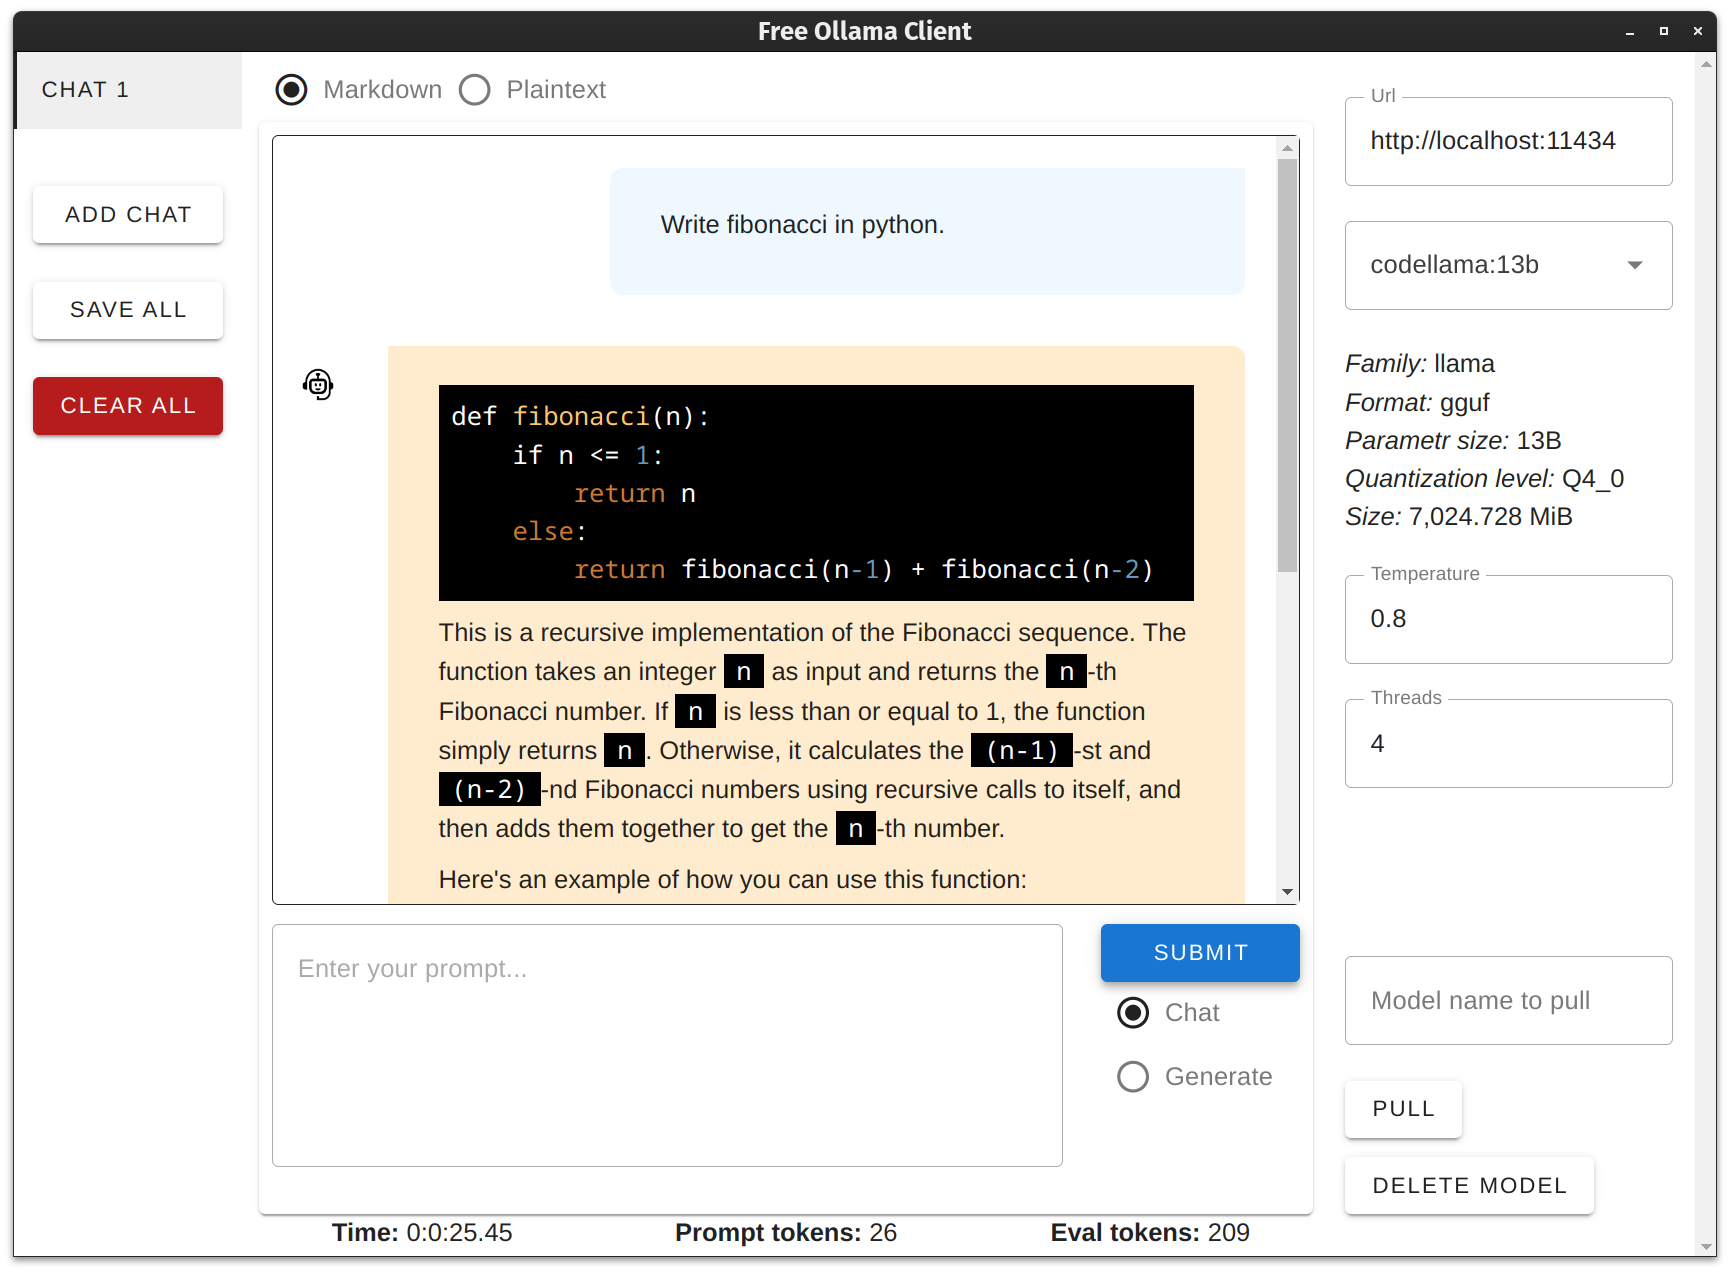
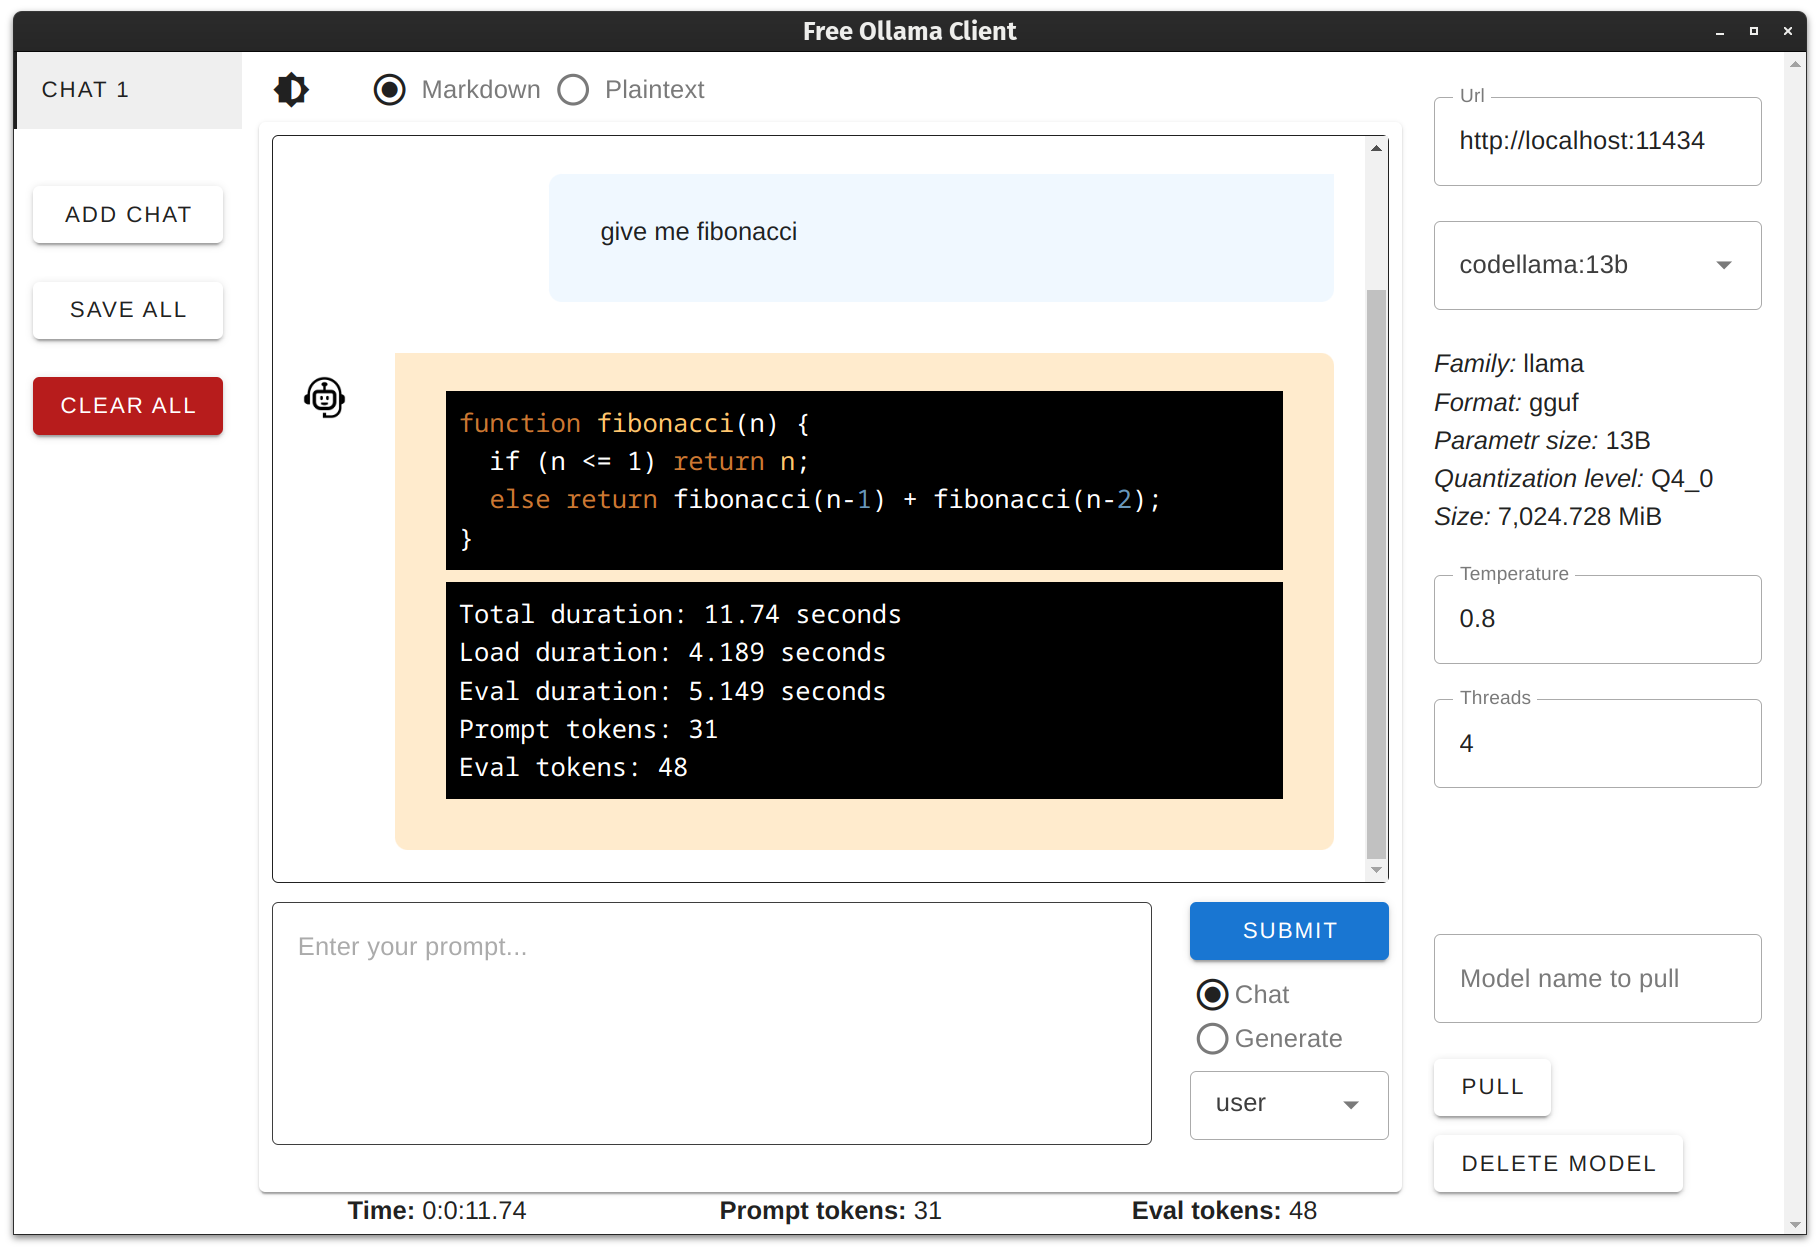
Autodetect system theme (dark or light).

diff --git a/src/components/Chat.vue b/src/components/Chat.vue
@@ -92,10 +92,20 @@
 
       <v-main class="d-flex flex-column flex-grow-1 pa-1 h-screen position-absolute"
               style="left: 150px; right: 250px; top: 0; bottom: 0;">
-        <v-radio-group v-model="chatModel.settingsForm.renderAs" inline class="d-flex flex-row flex-grow-0">
-          <v-radio value="markdown" label="Markdown" />
-          <v-radio value="plaintext" label="Plaintext" />
-        </v-radio-group>
+        <v-row class="d-flex flex-row flex-grow-0">
+          <v-col cols="1">
+            <v-icon icon="mdi-brightness-6"
+                    class="ml-2 mt-2 cursor-pointer"
+                    @click="toggleTheme()"
+            />
+          </v-col>
+          <v-col>
+            <v-radio-group v-model="chatModel.settingsForm.renderAs" inline class="d-flex flex-row flex-grow-0">
+              <v-radio value="markdown" label="Markdown" />
+              <v-radio value="plaintext" label="Plaintext" />
+            </v-radio-group>
+          </v-col>
+        </v-row>
 
         <v-card class="d-flex flex-column flex-grow-1 pa-2">
           <v-card :id="`chat-${currentChatId}`"
@@ -104,7 +114,7 @@
             <v-container>
               <v-row v-for="response in chatModel.responses">
                 <v-col v-if="response.role === 'assistant'" cols="1">
-                  <img src="../images/chatbot.png" class="chatbot" />
+                  <div class="chatbot" />
                 </v-col>
                 <v-col v-if="chatModel.settingsForm.renderAs === 'markdown'" :class="[ 'response', response.role ]"
                        v-html="markdownToHtml(response.content)"></v-col>
@@ -159,6 +169,7 @@
 
 <script setup>
   import { ref, onMounted, computed } from 'vue';
+  import { useTheme } from "vuetify";
   import { Marked } from "marked";
   import DOMPurify from 'dompurify';
   import { markedHighlight } from "marked-highlight";
@@ -192,6 +203,12 @@
   const currentModel = computed(() => {
     return chatModel.value.models.find(m => m.name === chatModel.value.settingsForm.model);
   });
+
+  const theme = useTheme();
+
+  function toggleTheme() {
+    theme.global.name.value = theme.global.current.value.dark ? 'light' : 'dark';
+  }
 
   function humanNumber(number) {
     const formater = new Intl.NumberFormat();
@@ -477,7 +494,6 @@ Eval tokens: ${json.eval_count}</pre>`;
   }
 
   .user {
-    background: aliceblue;
     margin-left: 25%;
     width: 75%;
     max-width: 75%;
@@ -486,27 +502,58 @@ Eval tokens: ${json.eval_count}</pre>`;
     border-top-left-radius: 0.5rem;
   }
 
+  .v-theme--light .user {
+    background: aliceblue;
+  }
+
+  .v-theme--dark .user {
+    background: #1f1f2f;
+  }
+
   .chatbot {
-    width: 24px;
-    height: 24px;
+    width: 32px;
+    height: 32px;
     margin: 0;
     margin-top: 1rem;
+    background-size: cover;
+  }
+
+  .v-theme--light .chatbot {
+    background-image: url("../images/chatbot.png");
+  }
+
+  .v-theme--dark .chatbot {
+    background-image: url("../images/chatbot-white.png");
   }
 
   .assistant {
-    background: blanchedalmond;
     width: calc(75% - 48px - 1rem);
     border-bottom-left-radius: 0.5rem;
     border-bottom-right-radius: 0.5rem;
     border-top-right-radius: 0.5rem;
   }
 
+  .v-theme--light .assistant {
+    background: blanchedalmond;
+  }
+
+  .v-theme--dark .assistant {
+    background: #2f2f1f;
+  }
+
   .system {
-    background: darkseagreen;
     max-width: 70% !important;
     margin-left: auto;
     margin-right: auto;
     border-radius: 0.5rem;
+  }
+
+  .v-theme--light .system {
+    background: darkseagreen;
+  }
+
+  .v-theme--dark .system {
+    background: #1f2f1f;
   }
 </style>
 

diff --git a/src/App.vue b/src/App.vue
@@ -46,7 +46,7 @@
   const newChatDefaults = {
     settingsForm: {
       url: 'http://localhost:11434',
-      model: 'mistral:latest',
+      model: null,
       temperature: '0.8',
       num_thread: '4',
       system: null,
@@ -122,15 +122,11 @@
     display: none;
   }
 
-  .active {
+  .v-theme--light .active {
     background-color: #efefef;
   }
 
-  .tab {
-    padding: 0.5rem;
-  }
-
-  .tab.warning {
-    background-color: #c06718;
+  .v-theme--dark .active {
+    background-color: #161616;
   }
 </style>

diff --git a/src/renderer.js b/src/renderer.js
@@ -40,7 +40,17 @@ import App from './App.vue';
 
 const app = createApp(App);
 
-const vuetify = createVuetify();
+
+let theme = 'light';
+const darkThemeMq = window.matchMedia("(prefers-color-scheme: dark)");
+if (darkThemeMq.matches) {
+  theme = 'dark';
+}
+const vuetify = createVuetify({
+  theme: {
+    defaultTheme: theme,
+  }
+});
 app.use(vuetify);
 
 const notivue = createNotivue({
